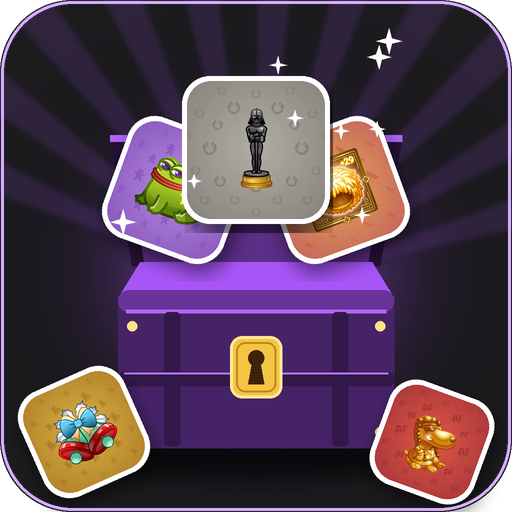
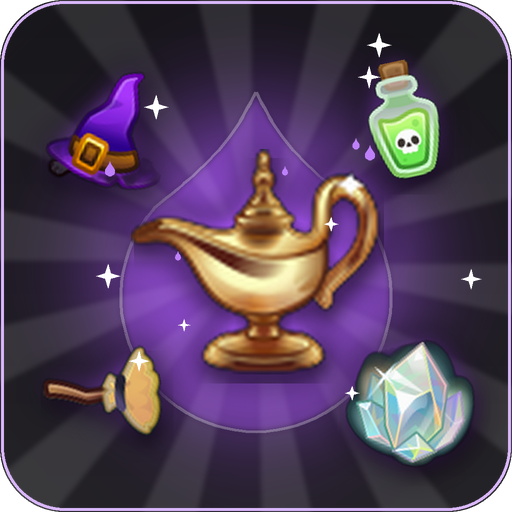
feat(cases): sticker-style covers with brand drop aura for all cases, 3 new cases with regular Telegram gifts, full-width cover tiles

diff --git a/src/data/catalog.ts b/src/data/catalog.ts
@@ -100,6 +100,22 @@ function gift(
   }
 }
 
+/** Обычный (не NFT) подарок Telegram: прозрачный стикер, цена по курсу Stars (175 Stars = 1 TON). */
+function regularGift(id: string, name: string, priceMinor: Minor, file: string): Gift {
+  return {
+    id,
+    name,
+    image: `/gifts/png/${file}.png`,
+    priceMinor,
+    rarity: priceMinor >= 500 ? 'rare' : 'common',
+    priceSource: 'catalog-config',
+    priceUpdatedAt: PRICE_UPDATED_AT,
+    collection: 'Classic Gifts',
+    serialNumber: null,
+    available: true,
+  }
+}
+
 /**
  * Каталог подарков:
  * 1. 19 базовых подарков спецификации для строгой совместимости математики и кейсов.
@@ -126,6 +142,19 @@ export const gifts: readonly Gift[] = [
   gift('golden-trophy', 'Golden Trophy', 60000, 'legendary', 'Champions', 'demo', 1200.0),
   gift('astral-crown', 'Astral Crown', 100000, 'legendary', 'Astral Series', 'demo', 3500.0),
   gift('golden-pepe', 'Golden Plush Pepe', 200000, 'legendary', 'Memes', 'demo', 15000.0),
+
+  /* --- ОБЫЧНЫЕ ПОДАРКИ TELEGRAM (не NFT) --- */
+  regularGift('reg-heart', 'Heart', 85, 'pink_heart_box'),
+  regularGift('reg-bear', 'Bear', 85, 'teddy_bear'),
+  regularGift('reg-gift', 'Gift', 142, 'yellow_gift_box'),
+  regularGift('reg-rose', 'Rose', 142, 'red_rose'),
+  regularGift('reg-cake', 'Cake', 285, 'birthday_cake_white'),
+  regularGift('reg-bouquet', 'Bouquet', 285, 'flower_bouquet'),
+  regularGift('reg-rocket', 'Rocket', 285, 'space_rocket'),
+  regularGift('reg-champagne', 'Champagne', 285, 'champagne_bottle'),
+  regularGift('reg-trophy', 'Trophy', 571, 'golden_trophy'),
+  regularGift('reg-ring', 'Ring', 571, 'solitaire_diamond_ring'),
+  regularGift('reg-diamond', 'Diamond', 571, 'blue_diamond_gem'),
 
   /* --- 147 ПОДЛИННЫХ TELEGRAM NFT С FRAGMENT (3 уникальных вида на каждый из 49 подарков) --- */
   nftGift('plush_pepe-1', 'Plush Pepe', 6720000, 'legendary', 'Plush Pepe', '/gifts/plush_pepe_1.png', 6720.0, 'Gummy Frog', 'Platinum', 'Ring', 1821),
@@ -333,6 +362,9 @@ const CASE_CONFIG: readonly {
   { id: 'onyx-black', name: 'Onyx Black', priceMinor: 16000, glow: '#7c5cff' },
   { id: 'peach', name: 'Peach', priceMinor: 16000, glow: '#ffb07a' },
   { id: 'gem', name: 'Gem', priceMinor: 16000, glow: '#38e1ff' },
+  { id: 'classic', name: 'Classic', priceMinor: 150, isNew: true, glow: '#ffb74d' },
+  { id: 'romance', name: 'Love', priceMinor: 150, isNew: true, glow: '#ff6f91' },
+  { id: 'holiday', name: 'Holiday', priceMinor: 250, isNew: true, glow: '#59c8ff' },
   { id: 'sweet', name: 'Sweet', priceMinor: 6000, isNew: true, glow: '#ff8fc7' },
   { id: 'party', name: 'Party', priceMinor: 7000, isNew: true, glow: '#ffd23c' },
   { id: 'cute', name: 'Cute', priceMinor: 8000, isNew: true, glow: '#ffb3d9' },

diff --git a/src/data/caseWeights.generated.ts b/src/data/caseWeights.generated.ts
@@ -33,4 +33,7 @@ export const caseWeights: Readonly<Record<string, ReadonlyArray<readonly [string
   'heroes': [['victory_medal-1', 144], ['liberty_figure-3', 129], ['khabibs_papakha-2', 33], ['mini_oscar-1', 11], ['mighty_arm-3', 7], ['heroic_helmet-2', 4], ['durovs_cap-3', 2], ['resistance_dog-2', 1]],
   'street': [['snoop_dogg-2', 127], ['input_key-1', 104], ['surge_board-1', 98], ['snoop_cigar-3', 31], ['sharp_tongue-1', 5], ['low_rider-1', 3], ['westside_sign-2', 1]],
   'cute': [['whip_cupcake-2', 179], ['pet_snake-1', 179], ['spring_basket-2', 124], ['jolly_chimp-3', 87], ['toy_bear-3', 12], ['kissed_frog-1', 6], ['scared_cat-3', 1]],
+  'classic': [['reg-heart', 513], ['reg-bear', 513], ['reg-gift', 221], ['reg-rose', 222], ['reg-cake', 77], ['reg-bouquet', 77], ['reg-rocket', 77], ['reg-champagne', 77], ['reg-trophy', 27], ['reg-ring', 27], ['reg-diamond', 1]],
+  'romance': [['reg-heart', 182], ['reg-bear', 182], ['reg-rose', 109], ['reg-bouquet', 63], ['reg-ring', 33], ['reg-diamond', 1]],
+  'holiday': [['reg-gift', 26], ['reg-cake', 20], ['reg-champagne', 19], ['reg-rocket', 19], ['reg-trophy', 1]],
 }

diff --git a/src/components/home/CasesGrid.module.css b/src/components/home/CasesGrid.module.css
@@ -162,3 +162,34 @@
   background: #ad5055;
   box-shadow: none;
 }
+
+/* ===== Обложка кейса — на всю ширину плитки, как в референсе ===== */
+.art {
+  padding: 6px 6px 0;
+  min-height: 0;
+  background: none;
+}
+.image {
+  display: block;
+  width: 100%;
+  height: auto;
+  aspect-ratio: 1 / 1;
+  object-fit: cover;
+  border-radius: 16px;
+  filter: none;
+}
+.newBadge {
+  top: 14px;
+  left: 14px;
+  z-index: 2;
+}
+.bar {
+  padding: 10px;
+}
+.name {
+  font-size: 14px;
+}
+.pricePill {
+  padding: 3px 8px;
+  font-size: 12.5px;
+}

diff --git a/src/lib/caseMath.test.ts b/src/lib/caseMath.test.ts
@@ -91,10 +91,13 @@ describe('catalog: gifts', () => {
 })
 
 describe('catalog: cases — инвариант EV и RTP', () => {
-  it('у всех 28 платных кейсов цена из конфигурации продукта', () => {
+  it('у всех 31 платных кейсов цена из конфигурации продукта', () => {
     const expected = new Map(
       Object.entries({
         farm: 6000,
+        classic: 150,
+        romance: 150,
+        holiday: 250,
         sweet: 6000,
         party: 7000,
         cute: 8000,

diff --git a/src/screens/CrashScreen.tsx b/src/screens/CrashScreen.tsx
@@ -838,7 +838,7 @@ export function CrashScreen() {
                         className={cx(
                           styles.playerNftSwap,
                           styles.playerNftImg,
-                          displayGift.image.endsWith('.png') && styles.playerNftImgFull,
+                          /_\d\.png$/.test(displayGift.image) && styles.playerNftImgFull,
                         )}
                         onError={(e) => {
                           const el = e.currentTarget

diff --git a/src/components/games/RocketRewardSheet.tsx b/src/components/games/RocketRewardSheet.tsx
@@ -55,7 +55,7 @@ export function RocketRewardSheet({ gift, onClose }: RocketRewardSheetProps) {
       <div className={styles.body}>
         <span className={styles.art} data-rarity={gift.rarity}>
           <img
-            className={gift.image.endsWith('.png') ? styles.imageFull : styles.imageContain}
+            className={/_\d\.png$/.test(gift.image) ? styles.imageFull : styles.imageContain}
             src={gift.image}
             alt=""
           />

diff --git a/src/components/inventory/InventoryGiftCard.tsx b/src/components/inventory/InventoryGiftCard.tsx
@@ -34,7 +34,7 @@ export function InventoryGiftCard({ gift, onSell, selling = false }: InventoryGi
       )}
       <div className={styles.art}>
         <img
-          className={gift.image.endsWith('.png') ? styles.imageFull : styles.imageContain}
+          className={/_\d\.png$/.test(gift.image) ? styles.imageFull : styles.imageContain}
           src={gift.image}
           alt=""
         />

diff --git a/scripts/generate_nft_case_weights.py b/scripts/generate_nft_case_weights.py
@@ -196,6 +196,37 @@ for ti, (cid, name, names) in enumerate(THEMED):
 
 (ROOT / "scripts/themed_cases.json").write_text(json.dumps(themed_prices, indent=1), encoding="utf-8")
 
+# --- Кейсы с обычными подарками Telegram (не NFT): цены по Stars (175 Stars = 1 TON, вниз) ---
+REGULAR = {
+    "reg-heart": 85, "reg-bear": 85, "reg-gift": 142, "reg-rose": 142,
+    "reg-cake": 285, "reg-bouquet": 285, "reg-rocket": 285, "reg-champagne": 285,
+    "reg-trophy": 571, "reg-ring": 571, "reg-diamond": 571,
+}
+REGULAR_CASES = [
+    ("classic", "Classic", list(REGULAR)),
+    ("romance", "Romance", ["reg-heart", "reg-rose", "reg-bouquet", "reg-bear", "reg-ring", "reg-diamond"]),
+    ("holiday", "Holiday", ["reg-cake", "reg-champagne", "reg-rocket", "reg-gift", "reg-trophy"]),
+]
+REGULAR_LADDER = [150, 180, 200, 220, 250, 280, 300, 330, 350, 400, 450, 500, 600, 700, 800]
+
+regular_prices = {}
+for cid, name, ids in REGULAR_CASES:
+    pool = sorted(ids, key=lambda g: REGULAR[g])
+    v = [REGULAR[g] for g in pool]
+    best = None
+    for price in REGULAR_LADDER:
+        w = solve(v, price)
+        if w and util(w, v, price) >= 0.96:
+            best = (price, w)
+            break
+    assert best, f"no price for regular case {cid}"
+    price, w = best
+    regular_prices[cid] = price
+    result[cid] = [[g, wt] for g, wt in zip(pool, w)]
+    report.append(f"{cid:<11} P={price/1000:>6}  util={util(w, v, price):.3f}  top={max(w)/sum(w):.0%}  total={sum(w)}  {list(zip(pool, w))}")
+
+(ROOT / "scripts/regular_cases.json").write_text(json.dumps(regular_prices, indent=1), encoding="utf-8")
+
 (ROOT / "scripts/case_weights.json").write_text(json.dumps(result, ensure_ascii=False, indent=1), encoding="utf-8")
 ts = [
     "/**",
